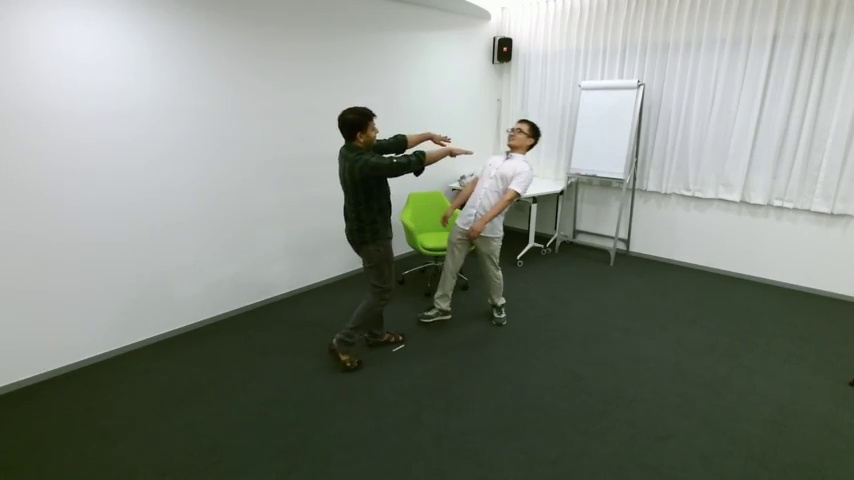
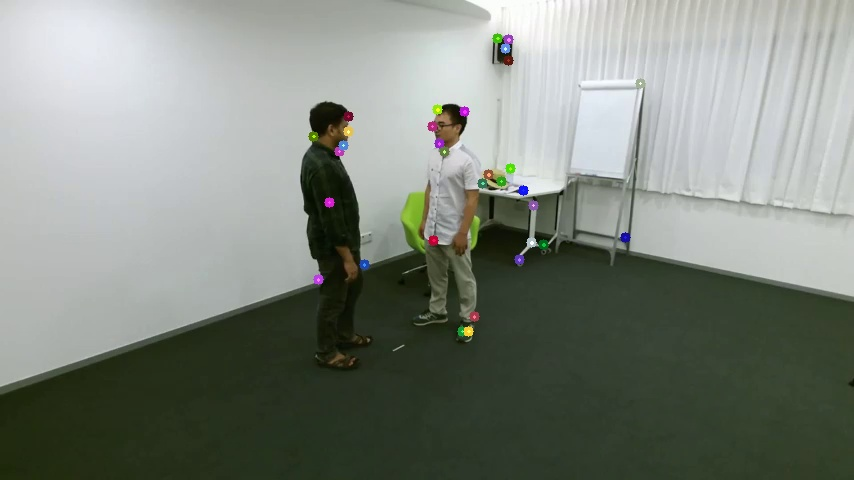
'HOGDescriptor'

diff --git a/extract_optical_flow.py b/extract_optical_flow.py
@@ -1,0 +1,58 @@
+import numpy as np
+import cv2
+
+cap = cv2.VideoCapture('./test_video1.mp4')
+
+# params for ShiTomasi corner detection
+feature_params = dict( maxCorners = 100,
+                       qualityLevel = 0.3,
+                       minDistance = 7,
+                       blockSize = 7 )
+
+# Parameters for lucas kanade optical flow
+lk_params = dict( winSize  = (15,15),
+                  maxLevel = 2,
+                  criteria = (cv2.TERM_CRITERIA_EPS | cv2.TERM_CRITERIA_COUNT, 10, 0.03))
+
+# Create some random colors
+color = np.random.randint(0,255,(100,3))
+
+# Take first frame and find corners in it
+ret, old_frame = cap.read()
+old_gray = cv2.cvtColor(old_frame, cv2.COLOR_BGR2GRAY)
+p0 = cv2.goodFeaturesToTrack(old_gray, mask = None, **feature_params)
+
+# Create a mask image for drawing purposes
+mask = np.zeros_like(old_frame)
+count=1
+while(1):
+    ret,frame = cap.read()
+    frame_gray = cv2.cvtColor(frame, cv2.COLOR_BGR2GRAY)
+
+    # calculate optical flow
+    p1, st, err = cv2.calcOpticalFlowPyrLK(old_gray, frame_gray, p0, None, **lk_params)
+
+    # Select good points
+    good_new = p1[st==1]
+    good_old = p0[st==1]
+
+    # draw the tracks
+    for i,(new,old) in enumerate(zip(good_new,good_old)):
+        a,b = new.ravel()
+        c,d = old.ravel()
+        mask = cv2.line(mask, (a,b),(c,d), color[i].tolist(), 2)
+        frame = cv2.circle(frame,(a,b),5,color[i].tolist(),-1)
+    img = cv2.add(frame,mask)
+    #cv2.imwrite("./images/frame%d.jpg" % count, img)
+    count=count+1
+    cv2.imshow('frame',img)
+    k = cv2.waitKey(30) & 0xff
+    if k == 27:
+        break
+
+    # Now update the previous frame and previous points
+    old_gray = frame_gray.copy()
+    p0 = good_new.reshape(-1,1,2)
+
+cv2.destroyAllWindows()
+cap.release()

diff --git a/detectPassenger.py b/detectPassenger.py
@@ -1,0 +1,41 @@
+import cv2
+import imutils
+
+cap = cv2.VideoCapture('./test_video1.mp4')
+count=0
+while(1):
+    # Initializing the HOG person
+    # detector
+    ret,frame=cap.read()
+    hog = cv2.HOGDescriptor()
+    hog.setSVMDetector(cv2.HOGDescriptor_getDefaultPeopleDetector())
+    cv2.imwrite("./images2/frame%d.jpg" % count, frame)
+
+    # Reading the Image
+    image = cv2.imread(r"./images2/frame%d.jpg" % count)
+    count = count + 1
+
+    # Resizing the Image
+    image = imutils.resize(image, width=min(400, image.shape[1]))
+
+    # Detecting all the regions in the
+    # Image that has a pedestrians inside it
+    (regions, _) = hog.detectMultiScale(image,
+                                      winStride=(4, 4),
+                                        padding=(4, 4),
+                                        scale=1.05)
+
+    # Drawing the regions in the Image
+    for (x, y, w, h) in regions:
+        cv2.rectangle(image, (x, y),
+                      (x + w, y + h),
+                      (0, 0, 255), 2)
+
+    # Showing the output Image
+    cv2.imshow("Image", image)
+    k = cv2.waitKey(30) & 0xff
+    if k == 27:
+        break
+
+cv2.destroyAllWindows()
+cap.release()
